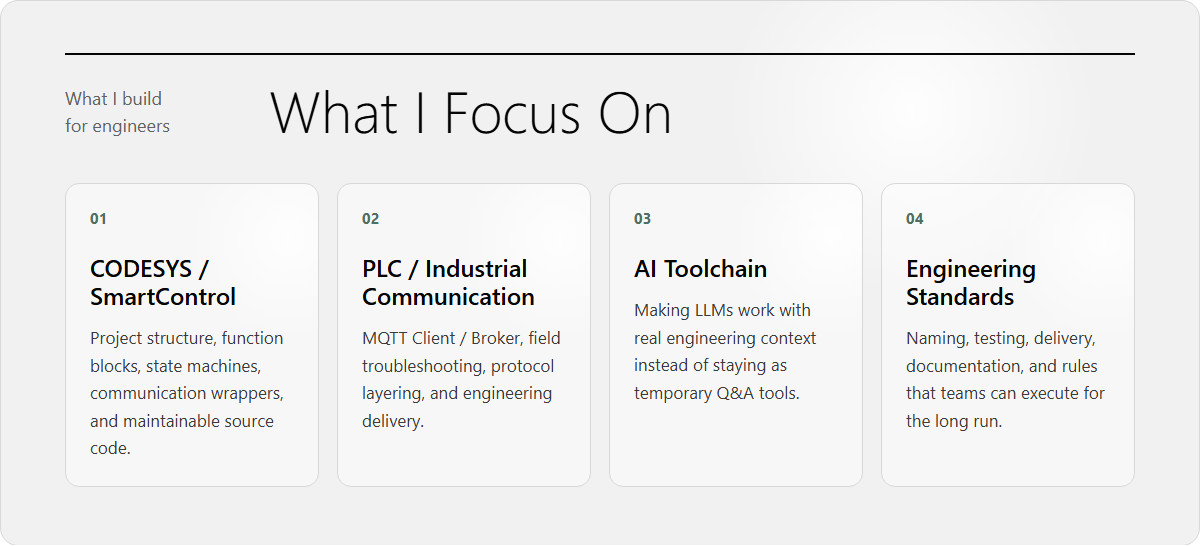
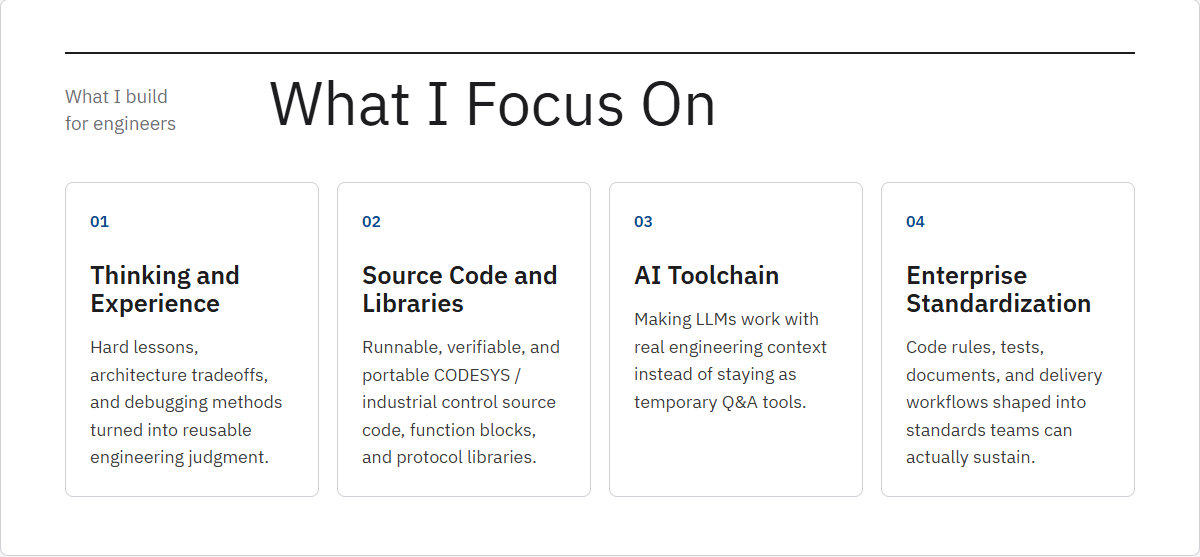
docs: synchronize GitHub profile focus

diff --git a/README.md b/README.md
@@ -23,20 +23,20 @@ These experiences keep reminding me of one thing: real industrial problems are r
 ### What I Focus On
 
 <p align="center">
-  <img src="./assets/controlrookie-profile-focus-en.png" alt="ControlRookie focus: CODESYS, PLC, AI toolchain, engineering standards" width="100%">
+  <img src="./assets/controlrookie-profile-focus-en.png" alt="ControlRookie focus: thinking and experience, source code and libraries, AI toolchain, enterprise standardization" width="100%">
 </p>
 
-**CODESYS / SmartControl**  
-Project structure, function blocks, state machines, communication wrappers, and maintainable source code.
+**Thinking and Experience**
+Hard lessons, architecture tradeoffs, and debugging methods turned into reusable engineering judgment.
 
-**PLC / Industrial Communication**  
-MQTT Client / Broker, field troubleshooting, protocol layering, and engineering delivery.
+**Source Code and Libraries**<br>
+Runnable, verifiable, and portable CODESYS / industrial control source code, function blocks, and protocol libraries.
 
 **AI Toolchain**  
 Making LLMs work with real engineering context instead of staying as temporary Q&A tools.
 
-**Engineering Standards**  
-Naming, testing, delivery, documentation, and rules that teams can execute for the long run.
+**Enterprise Standardization**<br>
+Code rules, tests, documents, and delivery workflows shaped into standards teams can actually sustain.
 
 ---
 
@@ -98,20 +98,20 @@ Email · ben_peng0205@hotmail.com
 ### 我在做的事
 
 <p align="center">
-  <img src="./assets/controlrookie-profile-focus.png" alt="ControlRookie focus: CODESYS, PLC, AI 工具链, 工程标准化" width="100%">
+  <img src="./assets/controlrookie-profile-focus.png" alt="ControlRookie focus: 思想和经验、源码和库、AI 工具链、企业标准化" width="100%">
 </p>
 
-**CODESYS / SmartControl**  
-工程结构、功能块、状态机、通信封装和可维护源码。
+**思想和经验**
+把现场踩过的坑、架构取舍和调试方法，讲成工程师能直接复用的判断框架。
 
-**PLC / 工业通信**  
-MQTT Client / Broker、现场排障、协议分层和工程落地。
+**源码和库**<br>
+沉淀可运行、可验证、可迁移的 CODESYS / 工控源码、功能块和协议库。
 
 **AI 工具链**  
 让 LLM 接住真实工程上下文，而不是只停留在临时问答。
 
-**工程标准化**  
-命名、测试、交付、文档和团队长期可执行的规则。
+**企业标准化**<br>
+把代码规范、测试、文档和交付流程，整理成团队能长期执行的工程标准。
 
 ---
 
